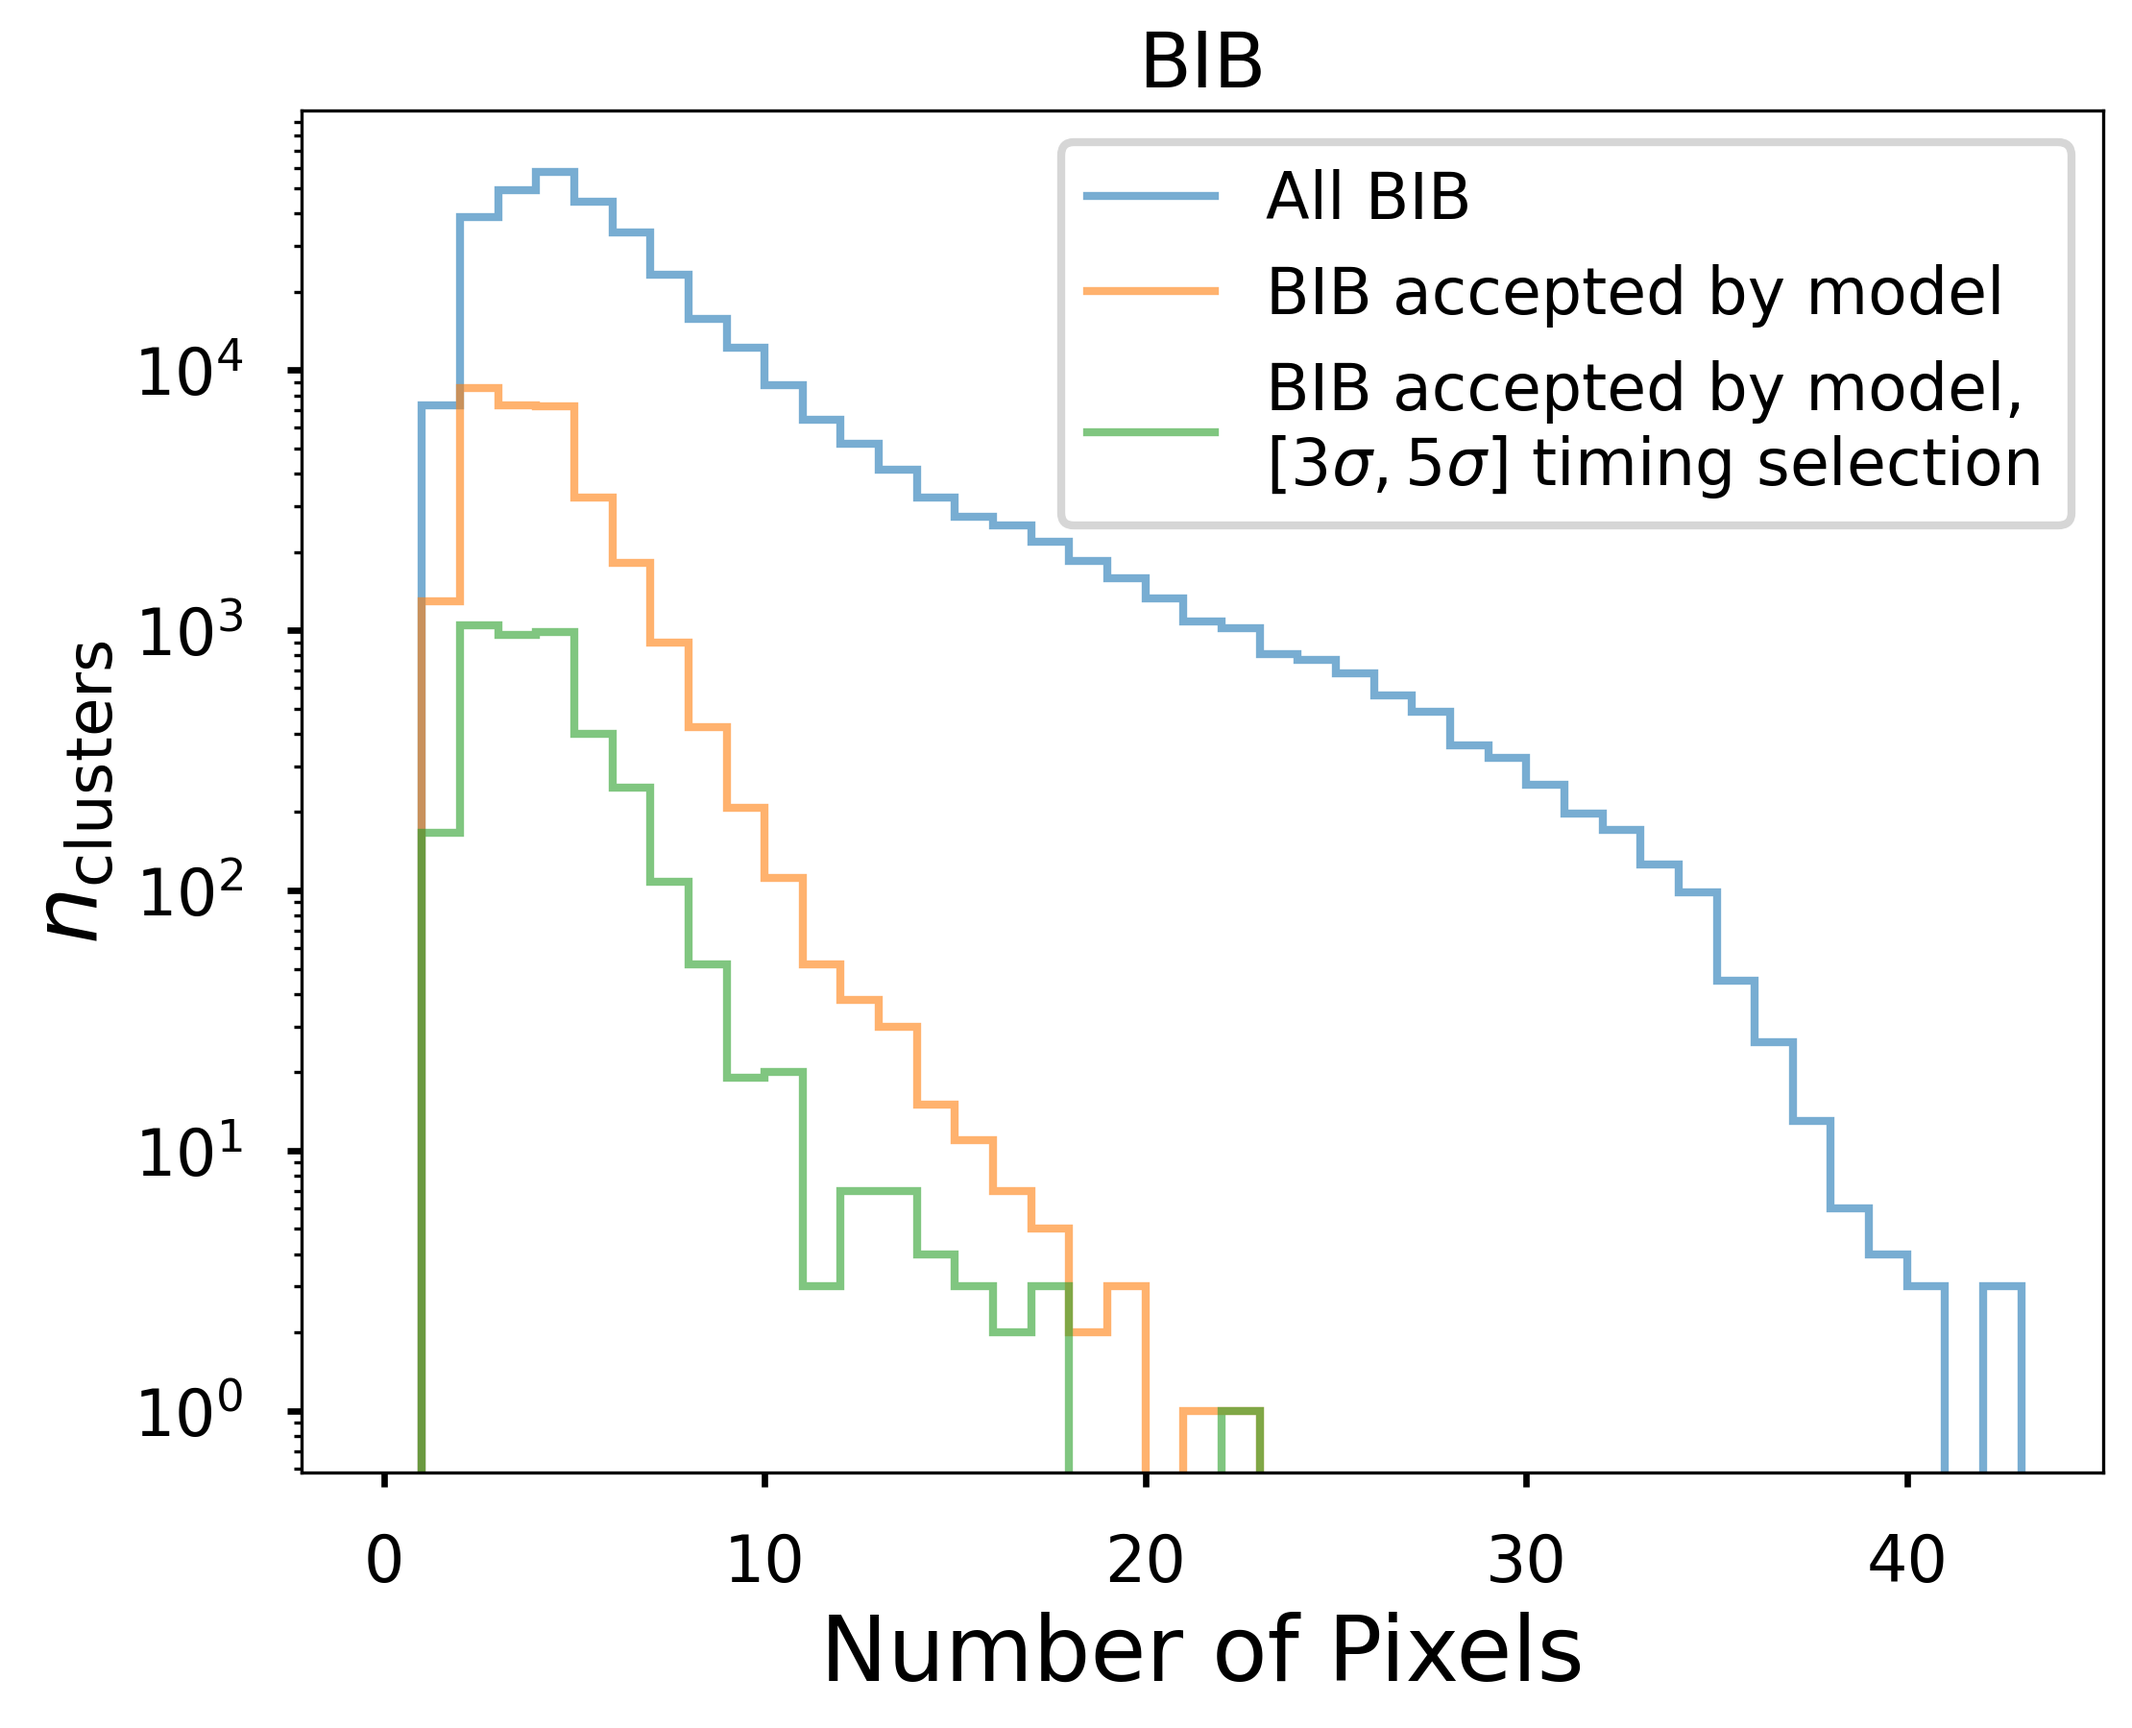
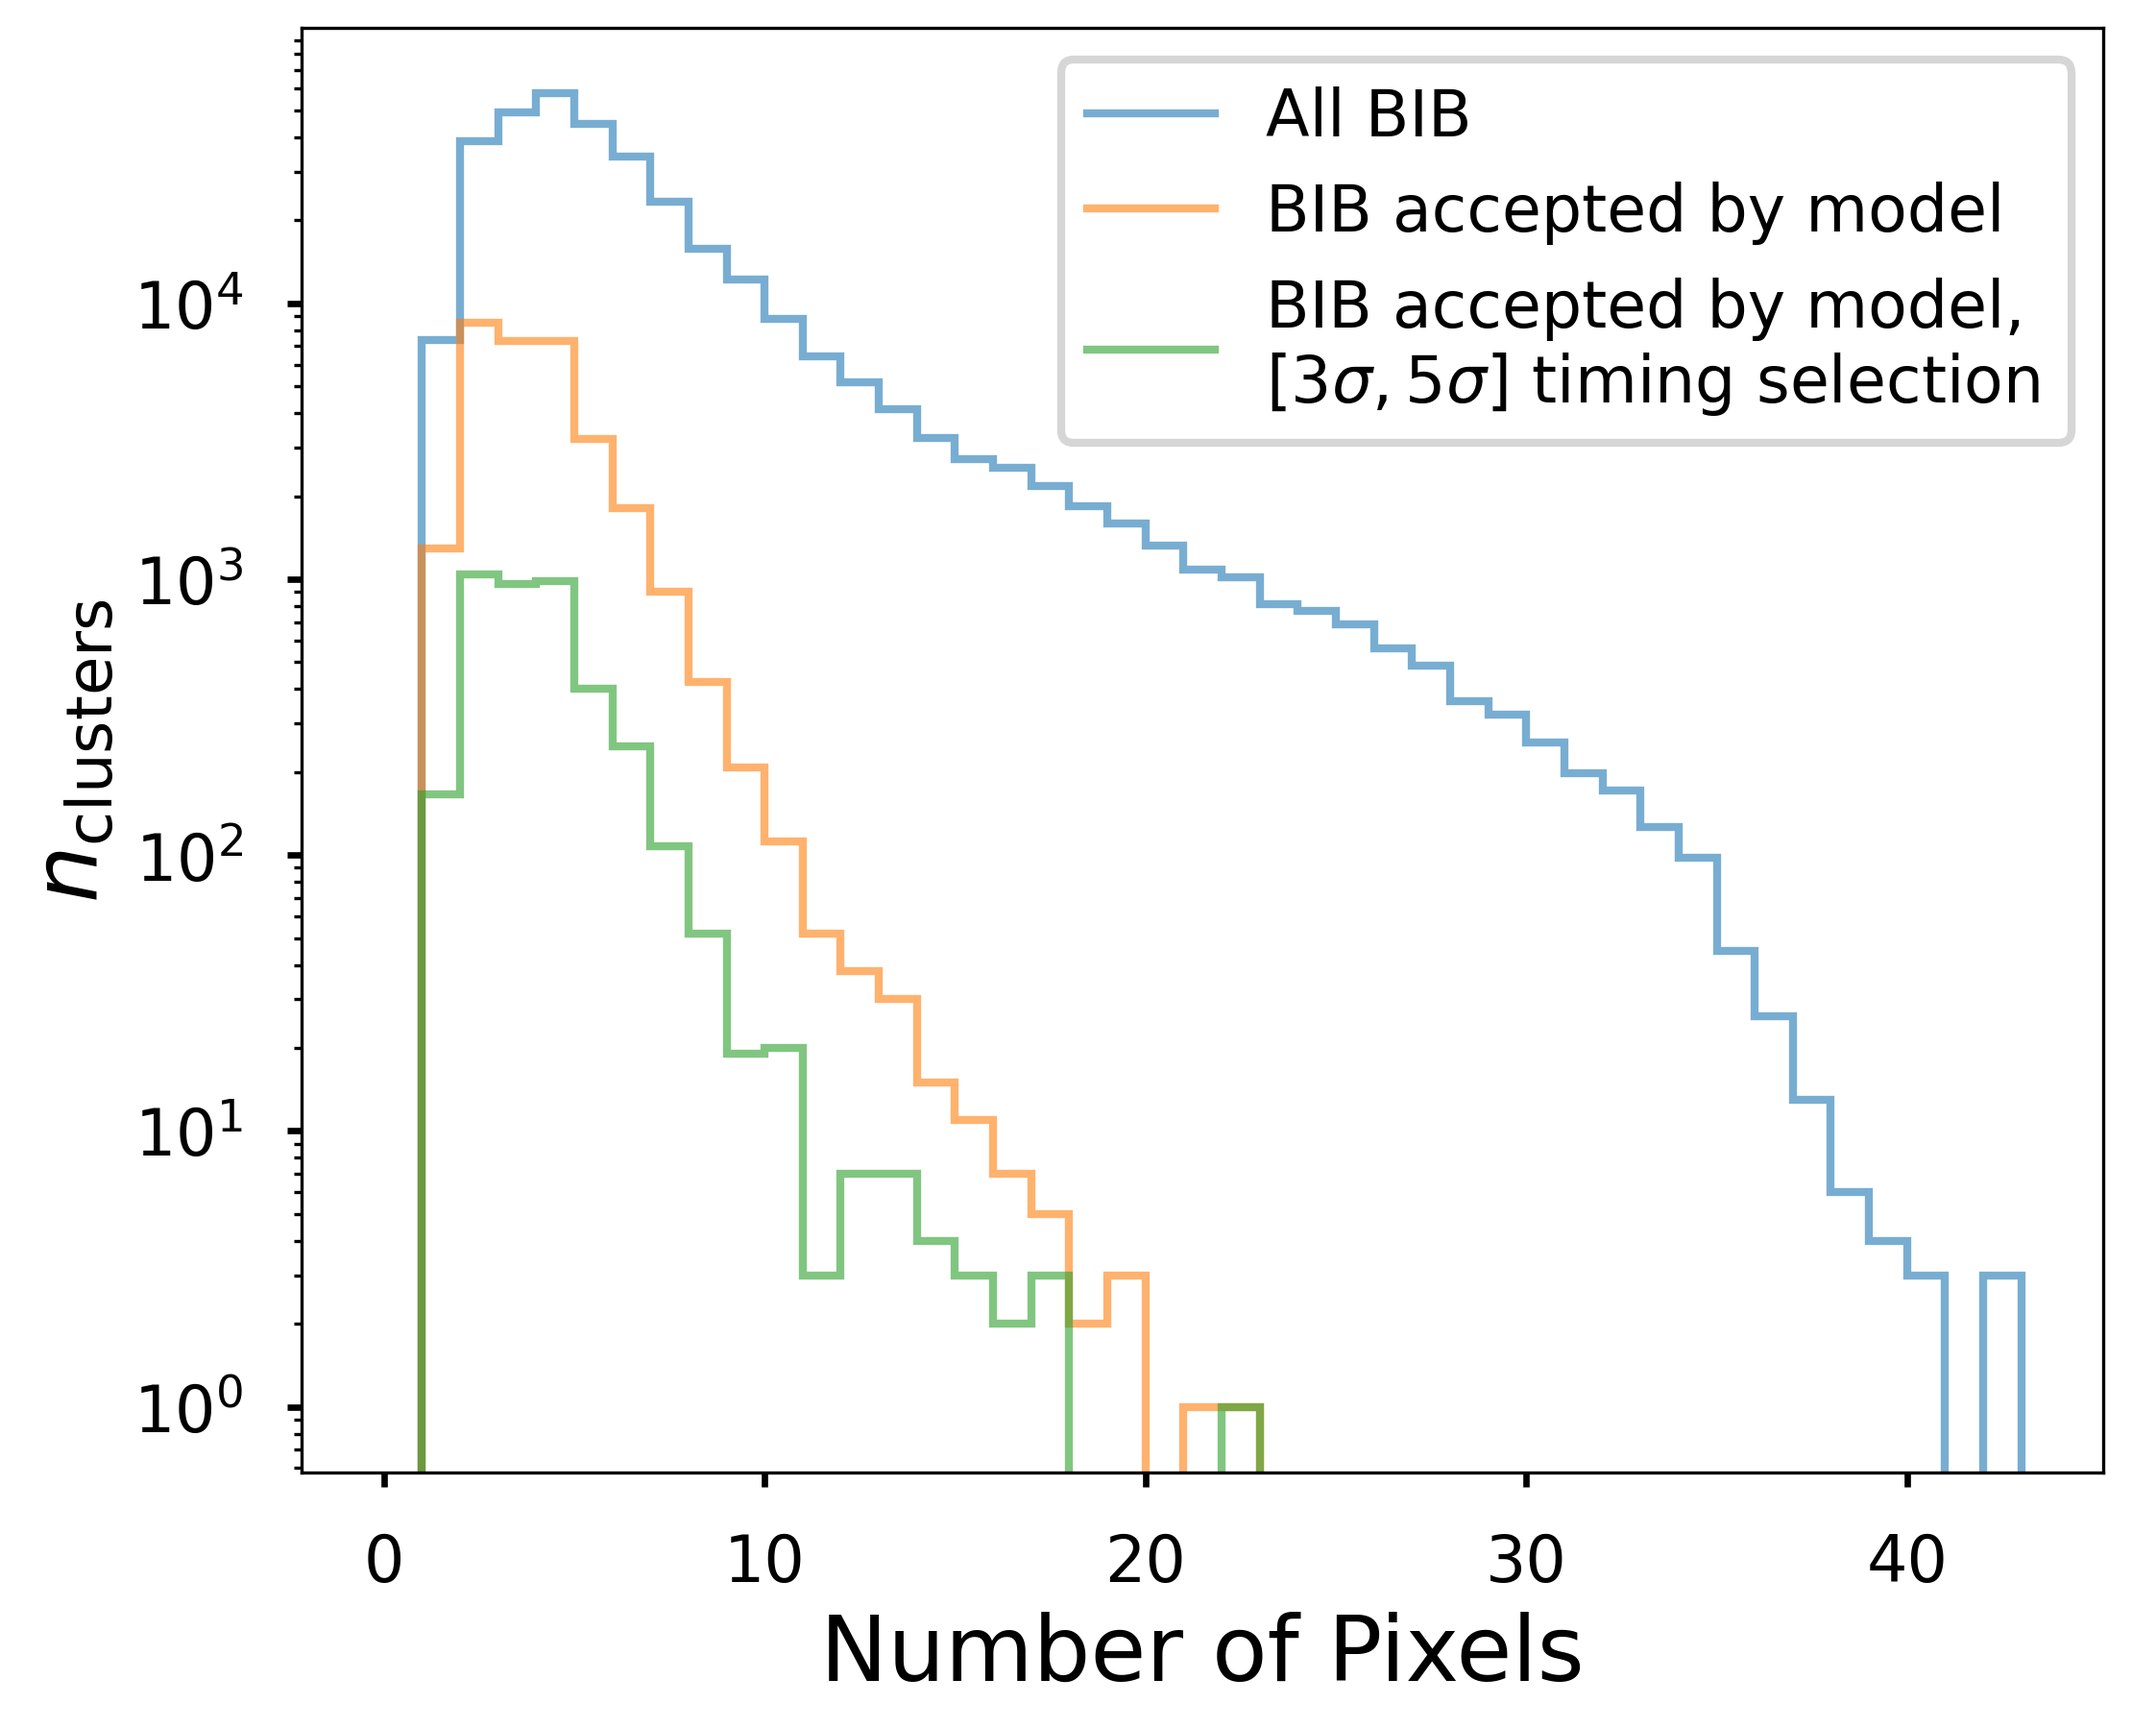
Remove some titles

diff --git a/paperPlots/predictionPlotter.py b/paperPlots/predictionPlotter.py
@@ -164,8 +164,8 @@ def plotAll1dHists(predVarDF,threshVal,pltDir):
     histoKarri(predVarDF,threshVal,pltDir,key="ySize",keyLabel="y-Size [# pixels]",bins=np.arange(0,14,1),figsize=(5,11),locLegend="upper right")
     histoKarri(predVarDF,threshVal,pltDir,key="nModule",keyLabel="Module Number (longitudinally counted)",bins=12,figsize=(5,10))
     histoKarri(predVarDF,threshVal,pltDir,key="nPix",keyLabel="Number of Pixels",bins=np.arange(0,np.max(predVarDF["nPix"]),1),figsize=(5,10),locLegend="upper right")
-    histoKarri(predVarDF,threshVal,pltDir,key="nPix",keyLabel="Number of Pixels",bins=np.arange(0,np.max(predVarDF["nPix"]),1),figsize=(7.5,6.1),locLegend="upper right",plotAll = False,plotSig=False,extendSaveTitle="paperVersionBib")
-    histoKarri(predVarDF,threshVal,pltDir,key="nPix",keyLabel="Number of Pixels",bins=np.arange(0,np.max(predVarDF["nPix"]),1),figsize=(7.5,6.1),locLegend="upper right",plotAll = False,plotBIB=False,extendSaveTitle="paperVersionSig")
+    histoKarri(predVarDF,threshVal,pltDir,key="nPix",keyLabel="Number of Pixels",bins=np.arange(0,np.max(predVarDF["nPix"]),1),figsize=(7.5,6.1),locLegend="upper right",plotAll = False,plotSig=False,extendSaveTitle="paperVersionBib", bibTitle = "", sigTitle = "")
+    histoKarri(predVarDF,threshVal,pltDir,key="nPix",keyLabel="Number of Pixels",bins=np.arange(0,np.max(predVarDF["nPix"]),1),figsize=(7.5,6.1),locLegend="upper right",plotAll = False,plotBIB=False,extendSaveTitle="paperVersionSig", bibTitle = "", sigTitle = "")
     print("finished 1d histograms")
 
 def plotNew2by2(predVarDF, threshVal, pltDir,interactivePlots = False,extendTitle = "",cmap="Blues",figsize=(10,8)):
